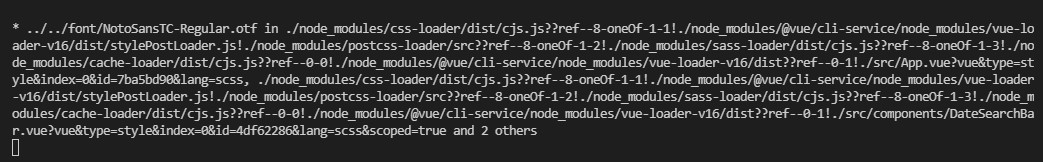
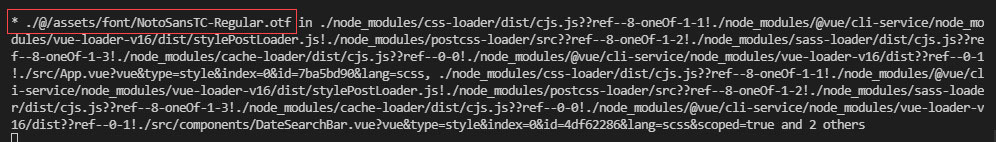
發布vuecli裡的路徑

diff --git a/source/_posts/2021-12-06-vuecli裡的路徑.md b/source/_posts/2021-12-06-vuecli裡的路徑.md
@@ -1,16 +1,18 @@
 ---
 title: vue cli裡的 ~@ 是什麼意思? 談談vue cli的路徑
-index_img: /img/post/vuecli裡@意思/6128107.png
-banner_img: /img/post/vuecli裡@意思/vue.png
 tags:
   - - vue
   - - js
   - - css
+index_img: /img/post/vuecli裡@意思/6128107.png
+banner_img: /img/post/vuecli裡@意思/vue.png
 categories:
   - 筆記
   - learn
   - vue
+date: 2021-12-06 10:22:45
 ---
+
 # vue cli裡的 ~@ 是什麼意思? 談談vue cli的路徑
 
 前幾天踩到路徑的坑，在vue cli中引入字體一直噴錯(等下會講)，所以決定來寫一下紀錄。
@@ -87,20 +89,31 @@ export default {
 ```
 ## ~ 開頭，以後的内容都會被當作模組請求被解析
 
-在css以及html中是不能只寫<span class="label label-danger">@</span> 的，會找不到路徑而報錯，來看以下例子
+在css以及html中是不能只寫 <span class="label label-danger">@</span> 的，會找不到路徑而報錯，來看以下例子
 
 原本我是寫:
 ```css
 @font-face {
   font-family: "Noto Sans TC";
-  src: url(../../font/NotoSansTC-Regular.otf) format("OpenType");
+  src: url(@/assets/font/NotoSansTC-Regular.otf) format("OpenType");
 }
 ```
 然而會出現錯誤如圖
 ![報錯](/img/post/vuecli裡@意思/error.jpg)
 
+正是因為webpack編譯後的路徑是 <span class="label label-danger">./@/assets/font/NotoSansTC-Regular.otf</span> 而正確的路徑則是 {% label danger @src/assets/font/NotoSansTC-Regular.otf %}，所以當然會找不到，此時只要在前面加上 {% label danger @~ %} 就可以解析成根目錄底下的src資料夾!
 
-
+```css
+@font-face {
+  font-family: "Noto Sans TC";
+  src: url(~@/assets/font/NotoSansTC-Regular.otf) format("OpenType");
+}
+```
+background-image也可以這樣使用 {% label danger @~ %}
+```css
+  background-image: url(~@/assets/img/signInBg.jpg);
+```
+這樣大家有沒有更加了解@與~的用法呢? <img src="/sticker/恩.gif" class="sticker"/>
 
 ------
 
